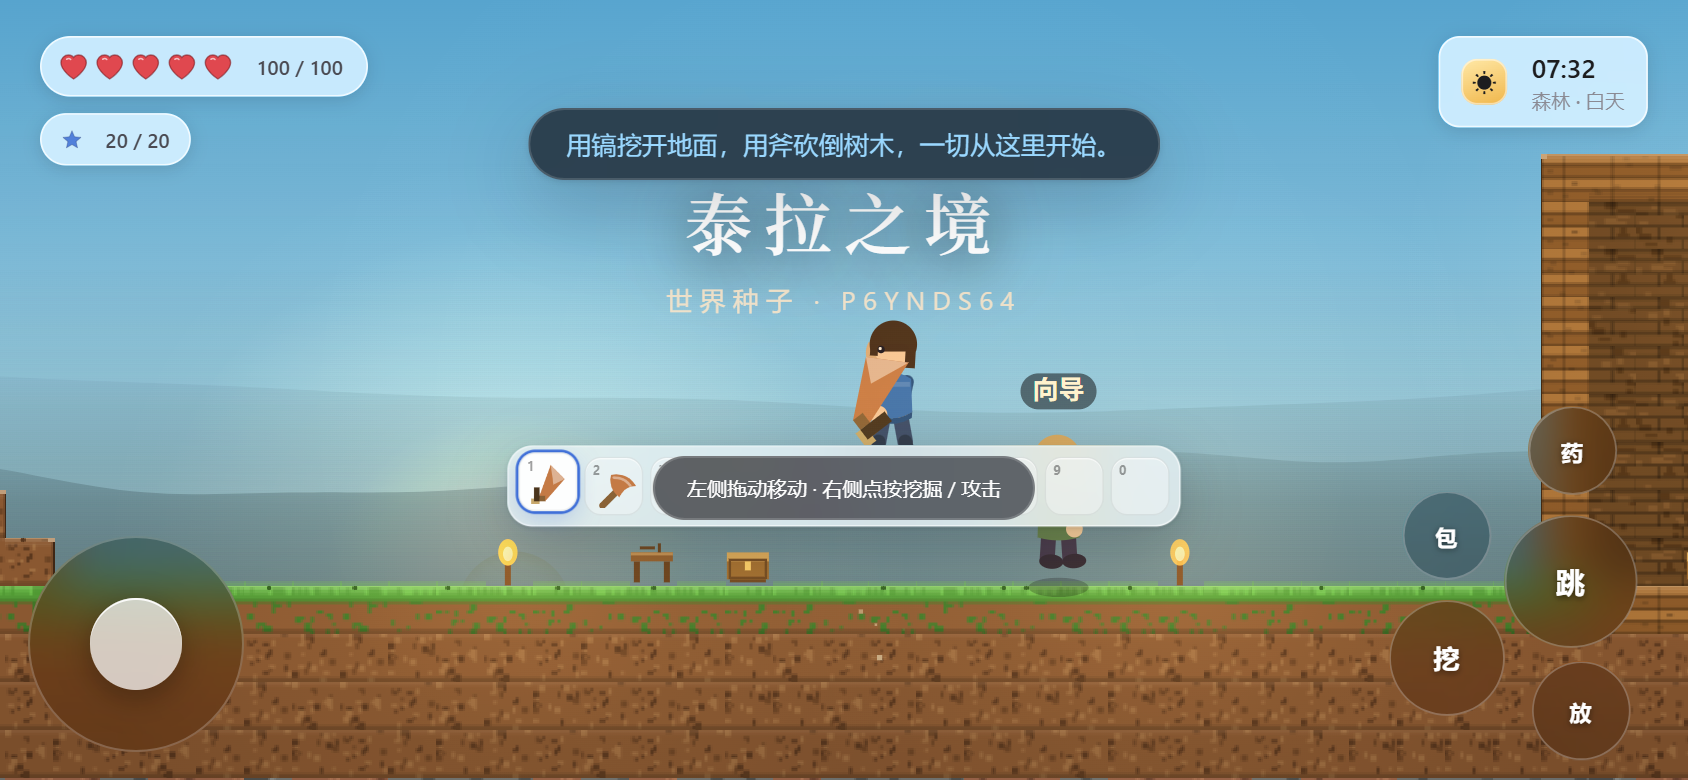
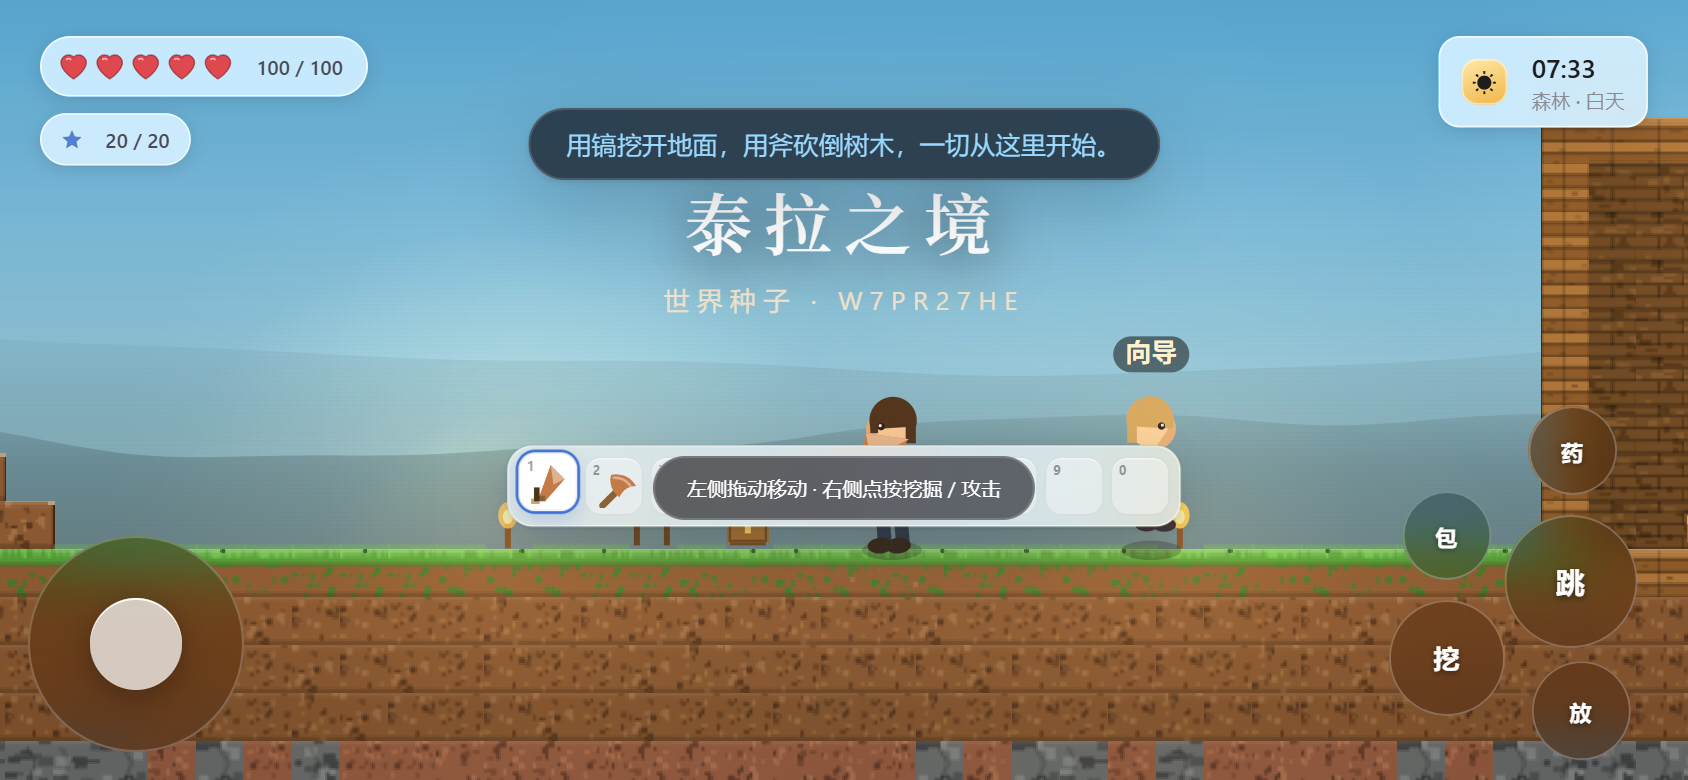
Tree trunks passable, fix tree felling drops, add wouldCrush guard; refresh previews and README

diff --git a/js/player.js b/js/player.js
@@ -321,7 +321,8 @@
           h.y += h.vy * dt / 4;
           h.len = Math.hypot(h.x - this.x, h.y - (this.y - this.h * 0.55));
           const tx = Math.floor(h.x / TS), ty = Math.floor(h.y / TS);
-          if (T.isSolid(game.world.getTile(tx, ty))) {
+          const anchorTile = game.world.getTile(tx, ty);
+          if (T.isSolid(anchorTile) || T.isTree(anchorTile)) {
             h.state = 'hooked';
             h.anchor = { x: tx * TS + TS / 2, y: ty * TS + TS / 2 };
             h.x = h.anchor.x;
@@ -1051,12 +1052,21 @@
 
     fellTree(tx, ty) {
       const world = this.game.world;
-      const tiles = [[0, -1], [-1, 0], [1, 0]];
-      let up = ty;
-      while (up > 0 && (world.getTile(tx, up) === TILE.TREETRUNK || world.getTile(tx, up) === TILE.LEAVES)) {
-        if (world.getTile(tx, up) === TILE.TREETRUNK) this.game.dropItem((tx + 0.5) * TS, up * TS, 'wood', 1);
-        world.setTile(tx, up, TILE.AIR);
-        up--;
+      let top = ty;
+      for (let k = 1; k < 40; k++) {
+        const t = world.getTile(tx, ty - k);
+        if (t === TILE.TREETRUNK || t === TILE.LEAVES || t === TILE.CORRUPT_LEAVES || t === TILE.JUNGLE_LEAVES) top = ty - k;
+        else break;
+      }
+      let woodCount = 0;
+      for (let y = top; y <= ty; y++) {
+        const t = world.getTile(tx, y);
+        if (t === TILE.TREETRUNK) { woodCount++; world.setTile(tx, y, TILE.AIR); }
+        else if (t === TILE.LEAVES || t === TILE.CORRUPT_LEAVES || t === TILE.JUNGLE_LEAVES) world.setTile(tx, y, TILE.AIR);
+        else if (y !== ty) break;
+      }
+      if (woodCount > 0) {
+        this.game.dropItem((tx + 0.5) * TS, (ty - 1) * TS, 'wood', Math.min(woodCount, 20));
       }
       for (let dy = -1; dy <= 1; dy++) {
         for (let dx = -3; dx <= 3; dx++) {
@@ -1163,7 +1173,11 @@
     }
 
     wouldCrush(tx, ty) {
-      return false;
+      const r = { x: tx * TS, y: ty * TS, w: TS, h: TS };
+      const pr = this.rect();
+      if (!T.rectsOverlap(r, pr)) return false;
+      const top = ty * TS, bottom = ty * TS + TS;
+      return pr.y < bottom - 3 && pr.y + pr.h > top + 3;
     }
 
     tryInteract(input) {

diff --git a/js/tiles.js b/js/tiles.js
@@ -87,7 +87,7 @@
     pal: ['#8a5a2b', '#a9743c', '#6d431c', '#583514'], art: 'wood'
   });
   t(TILE.TREETRUNK, {
-    name: '树干', solid: true, hard: 0.45, tool: 'axe', drop: 'wood', col: '#7a4c24',
+    name: '树干', solid: false, hard: 0.45, tool: 'axe', drop: 'wood', col: '#7a4c24', transparent: true,
     pal: ['#7a4c24', '#966133', '#5d3818', '#4a2b10'], art: 'trunk', tree: true
   });
   t(TILE.LEAVES, {

diff --git a/README.md b/README.md
@@ -1,26 +1,43 @@
 # 泰拉之境 · Terra Realm
 
-一款可完整通关的泰拉瑞亚式 2D 沙盒冒险游戏。原生 HTML5 Canvas + JavaScript，无外部依赖、无网络请求，双击 `index.html` 即可运行。
+一款可完整通关的泰拉瑞亚式 2D 沙盒冒险游戏。原生 HTML5 Canvas + JavaScript，无外部依赖、无网络请求。
 
 ## 在线游玩
 
-https://yjj0339.github.io/terra-realm/
+**https://yjj0339.github.io/terra-realm/**
 
-## 运行
+手机、平板、电脑浏览器直接打开即可。也可以克隆仓库后双击 `index.html` 离线运行。
 
-直接双击 `index.html`（推荐 Chrome / Edge）。音频在首次点击后启动，这是浏览器策略，不是缺陷。
+- 手机建议横屏；进入后左下角是虚拟摇杆，右下角是跳跃 / 挖掘 / 放置 / 背包 / 喝药按钮。
+- 桌面用键盘鼠标；首次点击后才会启动音频（浏览器策略，非缺陷）。
+- 想确认线上是不是最新版：`Ctrl+F5` 强制刷新（Pages 有 10 分钟缓存）。
+
+## 内容规模
+
+| 项目 | 数量 |
+| --- | --- |
+| 物品 | 363 |
+| 合成配方 | 290 |
+| 方块与家具 | 76 |
+| 敌怪 | 33 |
+| Boss | 6 |
+| NPC | 7 |
+| 制作站 | 6 |
+| 生物群系 | 13 |
+| 配乐音阶 | 9 套（按生态切换） |
 
 ## 核心系统
 
 **彩色光照引擎**
 - 逐 4px 单元的光线传播：天空光按地表线注入，横穿方块时受遮挡衰减
 - 彩色光源叠加：火把橙、岩浆红、生命水晶粉、魔力水晶蓝、狱石赤红、玩家暖白
-- 乘法合成，带遮蔽的洞穴环境光，所以白天进洞不会被一刀切黑
+- 乘法合成，带遮蔽的洞穴环境光，白天进洞不会被一刀切黑
 
 **世界生成**
 - 1600 × 1000 方块，输入种子可复现
-- 13 个生态区：海洋、海滩、地牢、森林、雪原、腐化之地、丛林、沙漠
-- 分层地层、噪声洞穴、9 条地表竖井、7 类矿石 + 4 种宝石
+- 13 个生态区：海洋、海滩、地牢、森林、雪原、腐化之地、丛林、沙漠、空岛、洞穴、地下、深渊、地狱
+- 分层地层、噪声洞穴、9 条地表竖井
+- 12 类矿石 + 7 种宝石：铜/锡/铁/铅/银/钨/金/铂金/恶魔/血金/陨石/狱石，紫水晶/黄玉/翡翠/红玉/蓝宝石/钻石/琥珀
 - 3 座浮空岛（含云屋与专属宝箱）、4 座恶魔祭坛、26 座地下小屋
 - 地牢：入口大厅 + 竖向主井 + 4 间房，带平台与火把照明
 - 海洋、地下水潭、地狱岩浆海，水与岩浆接触生成黑曜石
@@ -29,21 +46,24 @@ https://yjj0339.github.io/terra-realm/
 - 每个生态独立的天空配色 + 三层视差远山（随昼夜变暗）
 - 太阳带光晕、月相按天数变化、星空闪烁、飘动云层
 - 雨 / 雪 / 雷暴天气，按生态自动切换；雷暴有闪电与雷声
-- 瓦片按相邻关系绘制边缘高光、暗部与草皮细节；树冠有体积阴影
+- 瓦片按相邻关系绘制边缘高光、暗部、草皮颗粒；树冠为圆润团块并带体积阴影
 - 角色为分层骨骼动画：四肢独立绕关节旋转、行走摆动、持武姿势、护甲分层染色
 - 敌怪独立造型：史莱姆带高光与瞳孔、骷髅/僵尸/蚁狮/鱼/飞行怪各有结构
 - NPC 各有装束特征（商人帽、护士十字、巫师尖帽、树妖藤蔓等）
 - 粒子系统：挖掘碎屑、受伤血花、暴击数字、落叶、水花、烟雾、光点
 
-**玩法**
+**玩法与正版规则**
 - 挖掘 / 放置 / 砍树 / 拆墙，镐斧锤三类工具分级
-- 174 件物品、113 条配方、6 个制作站、10 类制作分类筛选
+- **树干可穿行**：与正版一致，树干不阻挡移动，但仍可用斧头砍伐，砍倒后整棵树的木头一并掉落
+- **镐力门槛**：恶魔矿、狱石、黑檀石、地牢砖等需要对应威力的镐，镐不够会提示挖不动
 - 近战 / 弓 / 枪 / 魔法 / 召唤五类武器；弹药与魔力消耗、召唤物自动索敌
-- 11 套护甲、10 种饰品（二段跳、冲刺、免疫摔落、生命恢复、魔力强化、伤害加成、跳跃强化、翅膀飞行、黑曜石盾、徽章）
-- **抓钩**：右键发射、黏住方块后把玩家拽过去，松开即脱钩
+- 攻击有 ±15% 伤害浮动与暴击（暴击双倍并显示金色数字）
+- **死亡掉落一半金币**，散落在尸体旁可捡回
+- **抓钩**：右键发射、黏住方块或树干后把玩家拽过去，松开即脱钩
 - **翅膀**：按住空格持续飞行，落地回充
 - **魔镜**：右键瞬间传送回出生点
-- 8 种药水：治疗、魔力、铁皮、迅捷、夜猫子、再生、黑曜石皮肤、挖矿
+- 护甲按头/身/腿分层，18 套套装共 54 件；30 种饰品（二段跳、冲刺、免疫摔落、生命恢复、魔力强化、伤害加成、跳跃强化、翅膀飞行、黑曜石盾、免疫岩浆、免疫击退等）
+- 12 种药水：弱效/普通/强效治疗、魔力、铁皮、迅捷、夜猫子、再生、黑曜石皮肤、挖矿、蜂蜜、回城
 
 **战斗**
 - 6 场 Boss 战
@@ -61,15 +81,17 @@ https://yjj0339.github.io/terra-realm/
 - 心形生命 / 星形魔力 / 增益条 / 时钟与生态 / Boss 血条
 - 实时迷你地图（地形、NPC 绿点、敌人红点、Boss 标记、深度）
 - 世界地图（探索迷雾、玩家位置、Boss 位置）
-- 背包 / 装备 / 制作（分类筛选）/ 箱子 / NPC 商店
+- 背包 / 装备 / 制作（10 类分类筛选）/ 箱子 / NPC 商店
 - 暂停、操作指南、胜利结算
-- localStorage 存档（RLE 压缩，约 0.6 MB），自动存档 + 手动存档
+- localStorage 存档（RLE 压缩，约 560 KB），自动存档 + 手动存档
 
 **音频**
 - 程序化音效：挖掘、破碎、挥砍、射击、魔法、受伤、击杀、Boss、雷声
 - 自适应配乐：白天 / 夜晚 / 地下 / 地狱 / 雪原 / 沙漠 / 丛林 / 腐化 / Boss 九套音阶与节奏
 
 ## 操作
+
+### 桌面
 
 | 操作 | 按键 |
 | --- | --- |
@@ -89,6 +111,17 @@ https://yjj0339.github.io/terra-realm/
 | 世界地图 | M |
 | 暂停 | Esc |
 
+### 手机 / 平板
+
+| 操作 | 位置 |
+| --- | --- |
+| 移动 / 攀爬 | 左下虚拟摇杆 |
+| 跳跃 / 飞行 | 右下「跳」 |
+| 挖掘 / 攻击 | 右下「挖」 |
+| 放置 / 交互 | 右下「放」 |
+| 背包与制作 | 右下「包」 |
+| 快速喝药 | 右下「药」 |
+
 ## 通关路线
 
 砍树 → 工作台 → 铜镐 → 洞穴找生命水晶与矿石 → 史莱姆王冠召唤史莱姆王 → 丛林蜂巢诱饵挑战蜂后 → 腐化之地收集暗影鳞片 → 夜晚召唤克苏鲁之眼 → 恶魔祭坛制作腐化诱饵 → 地牢挑战骷髅王 → 地狱挖狱石 → 把向导巫毒娃娃投入岩浆唤醒血肉之墙。
@@ -97,10 +130,11 @@ https://yjj0339.github.io/terra-realm/
 
 ```
 index.html          入口
-css/style.css       macOS 风格界面
+css/style.css       macOS 风格界面 + 触屏控件样式
 js/util.js          工具、噪声、RLE
 js/tiles.js         方块与墙体定义
-js/items.js         物品与配方
+js/items.js         基础物品与配方
+js/content_more.js  扩展物品与配方（117 件 / 117 条）
 js/world.js         世界生成、液体模拟、光照烘焙
 js/gfx.js           瓦片烘焙、区块缓存、天空、背景、天气
 js/lighting.js      彩色光照引擎
@@ -109,6 +143,15 @@ js/audio.js         程序化音效与配乐
 js/entities.js      敌人、Boss、弹幕、掉落物、召唤物、NPC
 js/player.js        玩家物理、挖建、战斗、抓钩、翅膀、背包
 js/ui.js            HUD、迷你地图、面板、大地图
+js/touch.js         手机触屏控制层
 js/game.js          主循环、系统编排、存档
 preview/            预览截图
 ```
+
+## 部署
+
+见 [DEPLOY.md](DEPLOY.md)。
+
+## 说明
+
+本项目的所有美术、图标、音效、配乐均由代码程序化生成，不含任何泰拉瑞亚（Terraria / Re-Logic）的官方素材。玩法与系统设计参考了该类型的通行做法。
